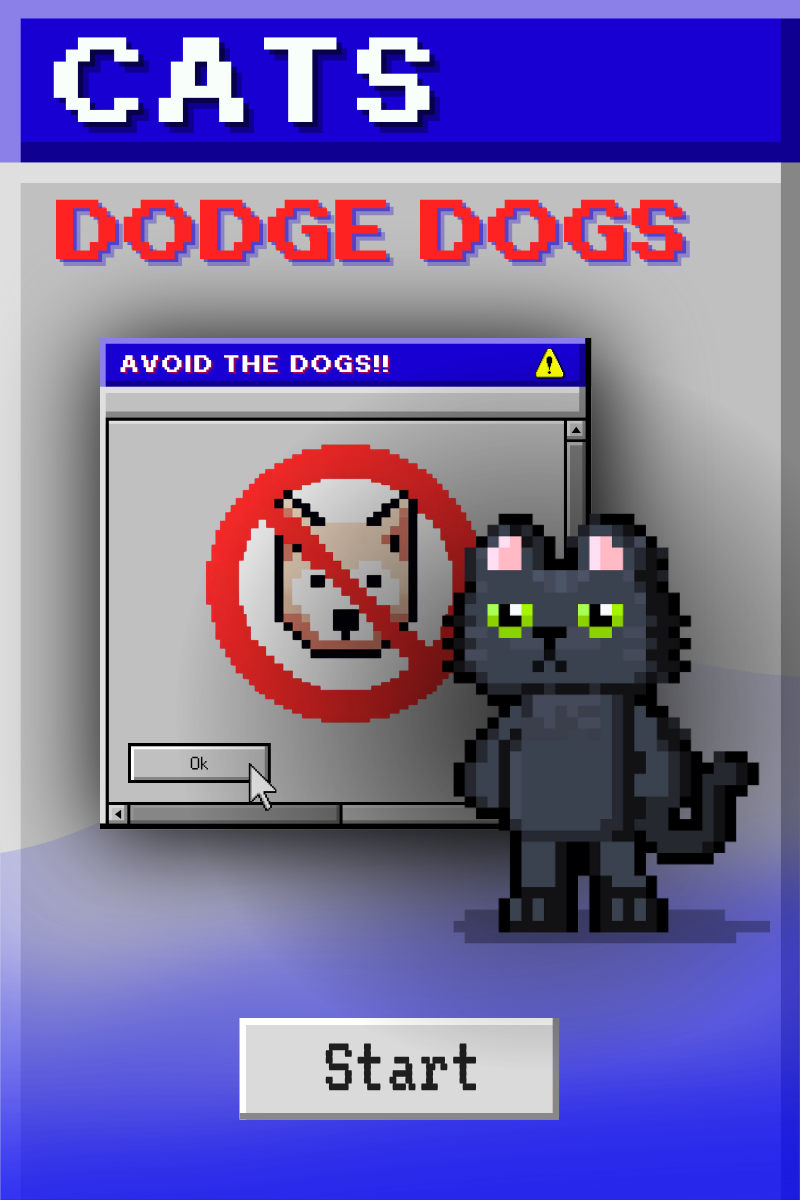
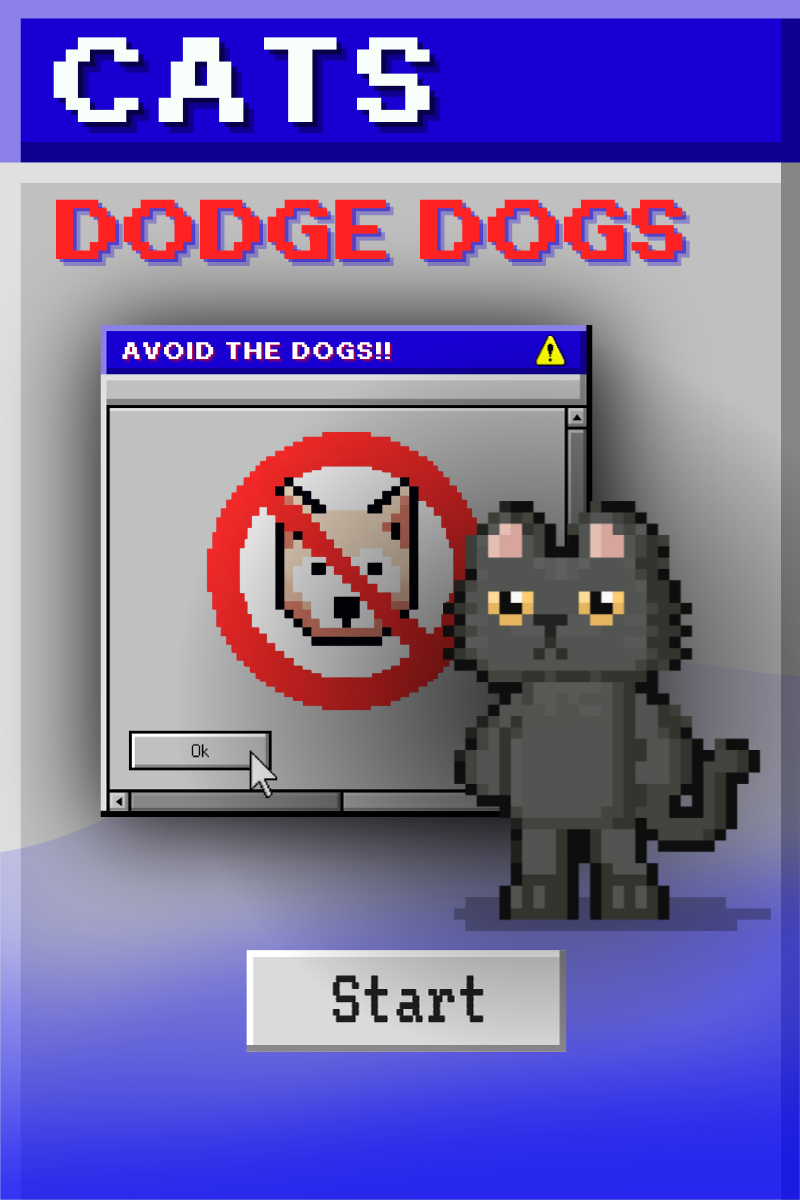
Change vertical window size

Changed region(s): [[0.125, 0.2467, 0.9688, 0.9558]]

diff --git a/src/constants.py b/src/constants.py
@@ -19,7 +19,7 @@ DOG_HITBOX_SCALE_Y = 0.6
 
 ### Dimensions
 WINDOW_WIDTH = 800
-WINDOW_HEIGHT = 1200
+WINDOW_HEIGHT = 1080
 
 ### Spawning
 MIN_GAP = 100  # Minimum gap between dogs
@@ -92,7 +92,7 @@ GRASS_COORDINATES = [(x, 0, 32, 32) for x in range(0, 161, 32)]
 PLANT_COORDINATES = [(x, 32, 32, 32) for x in range(0, 161, 32)]
 
 ### UI
-START_BUTTON_COORDINATES = (240, 1019, 318, 98)
+START_BUTTON_COORDINATES = (240, 951, 318, 98)
 
 ### Wrapping
 SPRITE_COORDINATES = {
